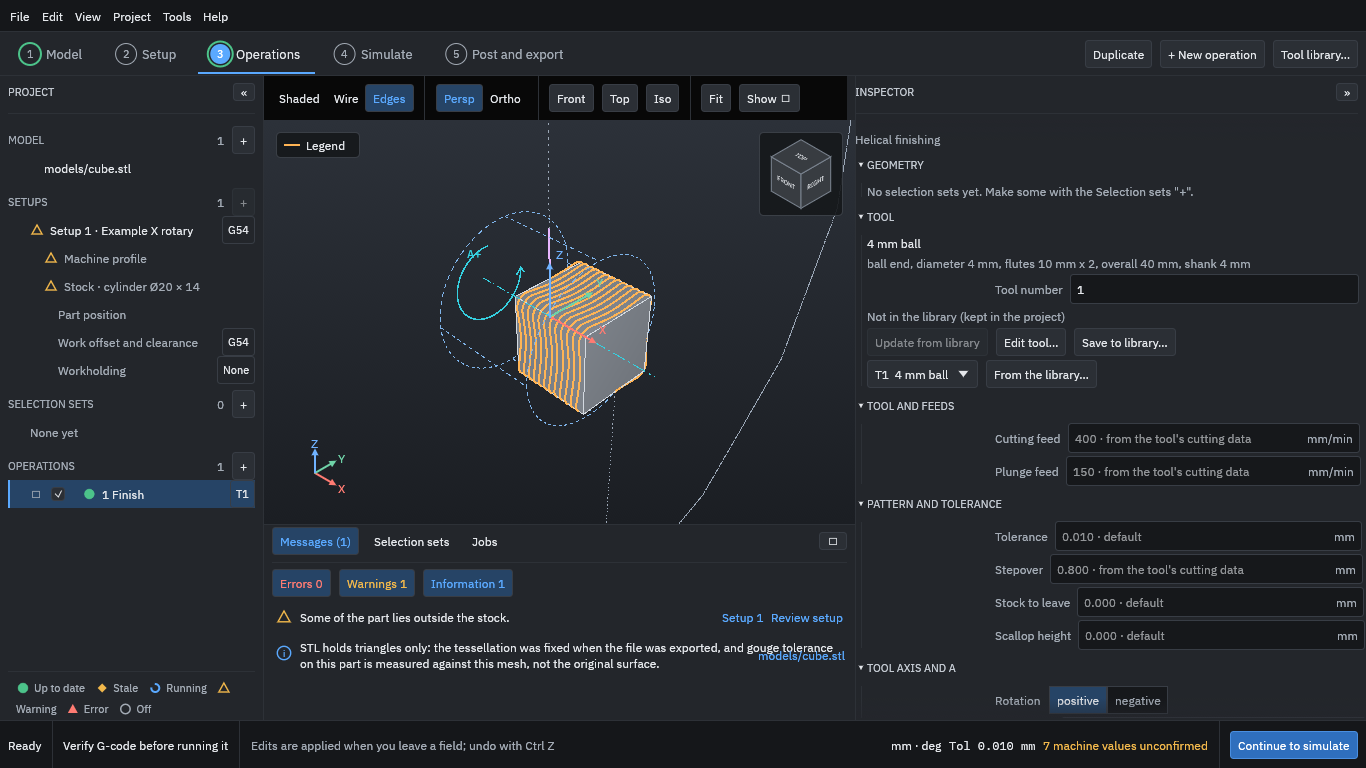
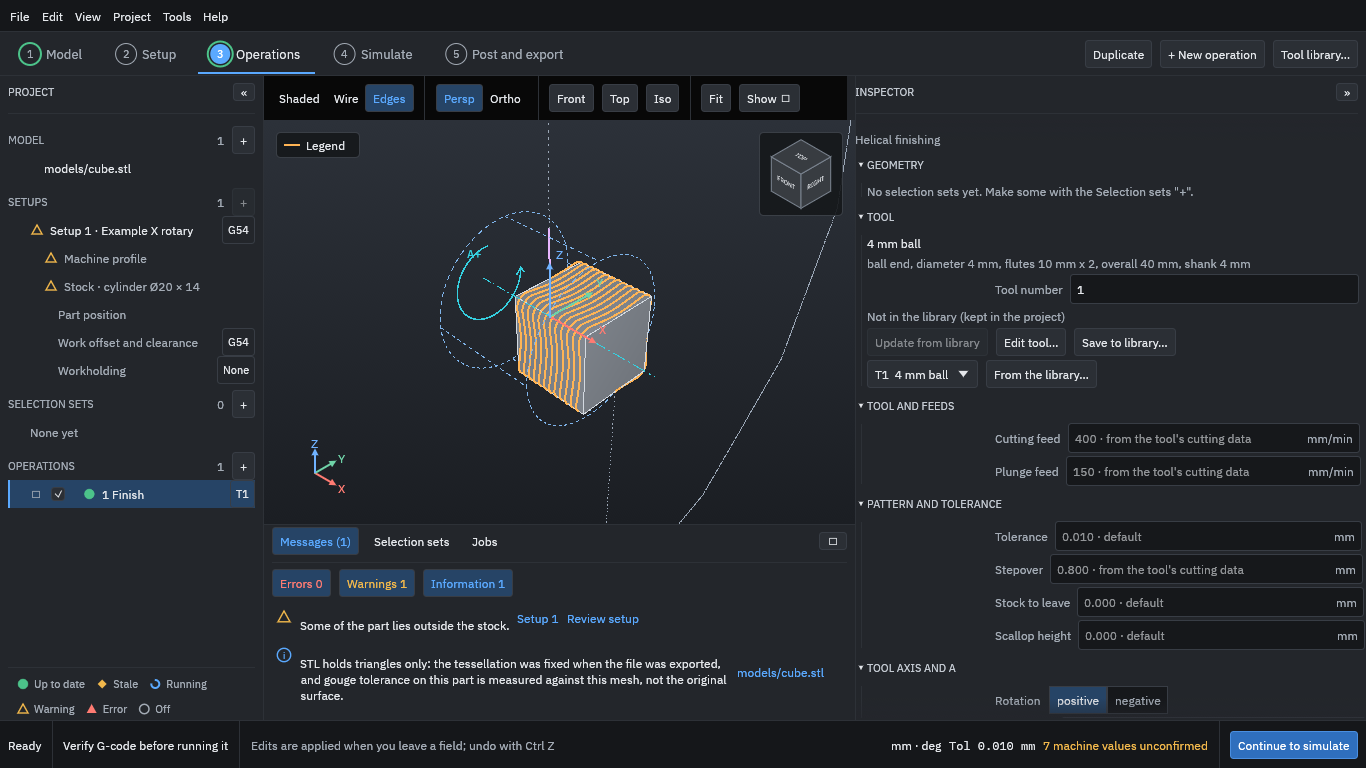
Lane X8: fix the tree legend wrap and the export Wrap line (OI-530, OI-532), retake the screenshots
- The legend breaks its rows between entries, so a mark stays with its word.
- The post's values in the export dialog wrap inside their column.
- OI-523 stays the owner's Windows check; OI-533 (release.yml rust-cache) waits for pull request 172.

Claude-Session: https://claude.ai/code/session_01HVsHpvSqvNnTY4BNJXZ1q7

Changed region(s): [[0.1845, 0.7812, 0.6149, 0.9062], [0.0, 0.875, 0.1537, 0.9375], [0.5227, 0.7812, 0.6149, 0.8125]]

diff --git a/apps/openchuck-ui/src/shell/marks.rs b/apps/openchuck-ui/src/shell/marks.rs
@@ -122,11 +122,43 @@ pub fn tick(ui: &mut egui::Ui) -> egui::Response {
     response
 }
 
-/// The legend of the marks, pinned under the tree (specification section 6).
+/// Which entries of a wrapped row of `widths` start a new row in `available` width, so that
+/// an entry (a mark with its word) is never split from its word at a row's end (OI-530).
+/// `gap` is the space between entries.
+fn row_starts(widths: &[f32], available: f32, gap: f32) -> Vec<bool> {
+    let mut used = 0.0;
+    widths
+        .iter()
+        .map(|w| {
+            let wraps = used > 0.0 && used + w > available;
+            used = if wraps { *w } else { used + w } + gap;
+            wraps
+        })
+        .collect()
+}
+
+/// The legend of the marks, pinned under the tree (specification section 6). Each mark stays
+/// with its word when the row wraps.
 pub fn legend(ui: &mut egui::Ui) {
+    let font = egui::TextStyle::Small.resolve(ui.style());
+    let widths: Vec<f32> = ItemState::ALL
+        .iter()
+        .map(|state| {
+            let word = ui
+                .painter()
+                .layout_no_wrap(state.name().to_owned(), font.clone(), DARK.muted)
+                .size()
+                .x;
+            SIZE + 4.0 + 4.0 + word + 6.0
+        })
+        .collect();
+    let starts = row_starts(&widths, ui.available_width(), 4.0);
     ui.horizontal_wrapped(|ui| {
         ui.spacing_mut().item_spacing.x = 4.0;
-        for state in ItemState::ALL {
+        for (state, wraps) in ItemState::ALL.into_iter().zip(starts) {
+            if wraps {
+                ui.end_row();
+            }
             mark(ui, state, state.name());
             ui.label(egui::RichText::new(state.name()).small().color(DARK.muted));
             ui.add_space(6.0);
@@ -153,5 +185,60 @@ pub fn colour(severity: Severity) -> Color32 {
         Severity::Error => DARK.error,
         Severity::Warning => DARK.warning,
         Severity::Info => DARK.accent,
+    }
+}
+
+#[cfg(test)]
+mod tests {
+    use super::*;
+
+    #[test]
+    fn req_ui_11_the_legend_wraps_between_entries_never_inside_one() {
+        // OI-530: an entry is a mark and its word; the row breaks before an entry that does
+        // not fit whole, so a word never lands on the next row apart from its mark.
+        let widths = [60.0, 50.0, 70.0, 40.0, 60.0, 30.0];
+        let starts = row_starts(&widths, 200.0, 4.0);
+        assert_eq!(starts, [false, false, false, true, false, false]);
+        // Every row holds what fits.
+        let mut used = 0.0;
+        for (w, wraps) in widths.iter().zip(&starts) {
+            if *wraps {
+                used = 0.0;
+            }
+            used += w + 4.0;
+            assert!(used - 4.0 <= 200.0, "{used}");
+        }
+        // A single entry wider than the row stays on its own row, never skipped.
+        assert_eq!(row_starts(&[300.0, 20.0], 200.0, 4.0), [false, true]);
+        assert!(row_starts(&[], 200.0, 4.0).is_empty());
+    }
+
+    #[test]
+    fn req_ui_11_the_legend_at_the_tree_width_keeps_each_word_inside_the_panel() {
+        let ctx = egui::Context::default();
+        let mut output = ctx.run_ui(
+            egui::RawInput {
+                screen_rect: Some(egui::Rect::from_min_size(
+                    egui::pos2(0.0, 0.0),
+                    egui::vec2(240.0, 200.0),
+                )),
+                ..Default::default()
+            },
+            legend,
+        );
+        output.textures_delta.clear();
+        let mut words = Vec::new();
+        for clipped in &output.shapes {
+            if let egui::Shape::Text(t) = &clipped.shape {
+                words.push((t.galley.text().to_owned(), t.pos.x + t.galley.size().x));
+            }
+        }
+        for state in ItemState::ALL {
+            let (_, right) = words
+                .iter()
+                .find(|(t, _)| t == state.name())
+                .unwrap_or_else(|| panic!("{} is drawn", state.name()));
+            assert!(*right <= 240.0, "{} ends at {right}", state.name());
+        }
     }
 }

diff --git a/apps/openchuck-ui/src/export_panel.rs b/apps/openchuck-ui/src/export_panel.rs
@@ -573,7 +573,9 @@ impl ExportPanel {
                             ("Feed mode", post.feed_mode.as_str()),
                         ] {
                             ui.label(label);
-                            ui.label(value);
+                            // A long value wraps inside its column instead of running under
+                            // the Files pane (UI-16; OI-532).
+                            ui.add(egui::Label::new(value).wrap());
                             ui.end_row();
                         }
                     });
@@ -974,6 +976,51 @@ mod tests {
         output.shapes.iter().any(|clipped| {
             matches!(&clipped.shape, egui::epaint::Shape::Rect(r) if r.fill == DARK.primary)
         })
+    }
+
+    #[test]
+    fn req_ui_16_the_posts_long_wrap_line_stays_in_its_column() {
+        // OI-532: "whole turns dropped without motion" ran under the Files pane.
+        let (dir, mut app, _, _) = cube_project("export-wrap");
+        let mut panel = ExportPanel::new(None);
+        panel.open(&app);
+        let checks = app.export_checks(None, None, None);
+        let ctx = egui::Context::default();
+        let mut paint = || {
+            let mut acts = Vec::new();
+            let mut output = ctx.run_ui(
+                egui::RawInput {
+                    screen_rect: Some(egui::Rect::from_min_size(
+                        egui::pos2(0.0, 0.0),
+                        egui::vec2(800.0, 900.0),
+                    )),
+                    ..Default::default()
+                },
+                |ui| panel.draw(ui, &app, &checks, None, &mut acts),
+            );
+            output.textures_delta.clear();
+            let mut texts = Vec::new();
+            for clipped in &output.shapes {
+                if let egui::epaint::Shape::Text(t) = &clipped.shape {
+                    texts.push((t.galley.text().to_owned(), t.pos.x, t.galley.size().x));
+                }
+            }
+            texts
+        };
+        paint();
+        let texts = paint();
+        let files_x = texts
+            .iter()
+            .find(|(t, _, _)| t == "Files to write")
+            .map(|(_, x, _)| *x)
+            .expect("the right column is drawn");
+        let wrap = texts
+            .iter()
+            .find(|(t, _, _)| t.contains("whole turns"))
+            .expect("the Wrap value is drawn");
+        assert!(wrap.1 + wrap.2 <= files_x, "{wrap:?} against {files_x}");
+        app.set_post(None);
+        let _ = std::fs::remove_dir_all(dir);
     }
 
     #[test]

diff --git a/docs/work-breakdown.md b/docs/work-breakdown.md
@@ -97,7 +97,7 @@ State of each slice on `main` (20 Oct 2026, refreshed by lane SP; lanes in fligh
 | 19 output options and setup sheet | In progress | Item 4 built by lane S on `claude/lane-s-slice-19-export-dialogs` ([decision 0071](decisions/0071-slice-19-export-dialogs.md), accepted); the owner closes the slice |
 | 20 hardening and first release | In progress | Merged: the release workflow and gate (TR), the end-to-end suite (TE), the UI smoke test (TS), the malformed-input sweep (FZ), the build traceability (BI) and the log file (BUG-LOG). Not started: lane TP (publish readiness, OI-302 and OI-303). The release workflow has never run (OI-304). Lane UIR (the user interface end-to-end review) and lane REL (the release) come last |
 | 21 workholding and retaining tabs | Built and merged; the owner closes the slice | 21a and 21b are merged (lanes U and V); 21c, application wiring, simulation, deviation, forms and the command line, is built by lane W on `claude/lane-w-slice-21c-wiring` ([decision 0045](decisions/0045-slice-21c-wiring.md), accepted 16 Oct 2026; OI-195 to OI-198 and OI-209); the fix for walls in the target (OI-209, closed) is merged from lane Y ([decision 0050](decisions/0050-walls-merge-micro-moves.md), accepted 16 Oct 2026, relayed by the orchestrator session at the owner's instruction); 21d ([decision 0104](decisions/0104-held-regions-and-tabs-in-the-interface.md), UI-25): the interface specification (sections 7.5 and 11.7) is written by lane 21d on `claude/lane-21d-workholding-ui-spec` and merged; its code and tests (item 3) are built by lane 21d on `claude/lane-21d-workholding-ui-code` (merged, pull request 119; OI-325 closed, what remains is OI-334). Slice 21 is not in `closed_slices` |
-| 22 user interface conformance pass | In progress | Reframed as a conformance pass ([decision 0105](decisions/0105-slice-22-conformance-pass.md), accepted). Merged: the conformance report (X1, [decision 0114](decisions/0114-slice-22-conformance-report.md)), the shell frame (X2), viewport drawing (X3), inspectors (X4), the Setup panes (X5), Simulate and import (X6), theme tokens (X7a), plain wording (X7b) and the Setups "+" (SU). In flight (draft pull requests): IW #161, SL #162, UAL #163, BUG-SEL #164; lane X9 (tool library window) and lane MV are in flight on branches this session cannot fully see. Built: X8 (smoke test, 1366 × 768 screenshots, display checks, frame benchmark on software; [decision 0131](decisions/0131-slice-22-verification.md), proposed; findings OI-525 to OI-529 fixed, OI-523, OI-530 and OI-532 open), pull request in draft. Queued: UIR. Open: OI-334 (what the workholding panel still lacks), OI-342 (boards, see OI-472), OI-360 (message sweep; the smoke test opens every dialog but does not read each message). Not in `closed_slices` |
+| 22 user interface conformance pass | In progress | Reframed as a conformance pass ([decision 0105](decisions/0105-slice-22-conformance-pass.md), accepted). Merged: the conformance report (X1, [decision 0114](decisions/0114-slice-22-conformance-report.md)), the shell frame (X2), viewport drawing (X3), inspectors (X4), the Setup panes (X5), Simulate and import (X6), theme tokens (X7a), plain wording (X7b) and the Setups "+" (SU). In flight (draft pull requests): IW #161, SL #162, UAL #163, BUG-SEL #164; lane X9 (tool library window) and lane MV are in flight on branches this session cannot fully see. Built: X8 (smoke test, 1366 × 768 screenshots, display checks, frame benchmark on software; [decision 0131](decisions/0131-slice-22-verification.md), proposed; findings OI-525 to OI-530 and OI-532 fixed, OI-523 and OI-533 open), pull request in draft. Queued: UIR. Open: OI-334 (what the workholding panel still lacks), OI-342 (boards, see OI-472), OI-360 (message sweep; the smoke test opens every dialog but does not read each message). Not in `closed_slices` |
 
 ## Slice order and dependencies
 
@@ -165,7 +165,7 @@ Slices 0 to 7 and 13 are closed. The remaining work splits into the lanes below,
 | X7b | 22: plain wording and tokens applied to existing panels (built 19 Oct 2026 on `claude/lane-x7b-wording-tokens`; no decision record; OI-360) | ░░ | ░░ | ░░ | ░░ | ██ |
 | X9 | 22: tool library window (12.1) and trial feedback F-10 (issue 148): tools out of the tree (UI-06 amended), the operation's Tool section, the window with drafts, This project, import review and Add to project. Built 20 Oct 2026 on `claude/lane-x9-tool-library-window` ([decision 0127](decisions/0127-slice-22-tool-library-window.md), accepted 20 Oct 2026; OI-375 to OI-379, OI-491 and OI-492 answered by the owner and closed; OI-493 and OI-494 open); board 10 re-rendered | ░░ | ░░ | ░░ | ░░ | ██ |
 | SU | 22 (SET-01 to SET-06 from the interface): the Setups "+" and the workflow bar's "Add setup" create the project's one setup ([decision 0144](decisions/0144-one-setup-from-the-interface.md), accepted 19 Oct 2026; OI-425 and OI-426 closed; built on `claude/lane-su-add-setup`, merged, pull request 149) | ░░ | ░░ | ░░ | ░░ | ██ |
-| X8 | 22 step 3: smoke test, 1366 × 768 screenshots, display checks, frame benchmark rerun, carried findings. Built 20 Oct 2026 on `claude/lane-x8-verification` ([decision 0131](decisions/0131-slice-22-verification.md), proposed; no boards to re-render): `shell/smoke_tests.rs`, screenshots in `docs/ui-design/screenshots-1366x768/`, the benchmark on software only (the reference-hardware run is the owner's, OI-264, OI-266); display findings fixed in the lane (OI-525 to OI-529); OI-523, OI-530 and OI-532 open | ░░ | ░░ | ░░ | ░░ | ██ |
+| X8 | 22 step 3: smoke test, 1366 × 768 screenshots, display checks, frame benchmark rerun, carried findings. Built 20 Oct 2026 on `claude/lane-x8-verification` ([decision 0131](decisions/0131-slice-22-verification.md), proposed; no boards to re-render): `shell/smoke_tests.rs`, screenshots in `docs/ui-design/screenshots-1366x768/`, the benchmark on software only (the reference-hardware run is the owner's, OI-264, OI-266); display findings fixed in the lane (OI-525 to OI-530, OI-532); OI-523 and OI-533 open | ░░ | ░░ | ░░ | ░░ | ██ |
 | IW | 22 follow-up: the import window from the owner's trial (issues 146, 147, 144, 145; F-08, F-09, F-06, F-07): fixed size with pinned header and footer, a spinner row that reserves its space, "Check and preview" with a step line, the dialog raised when the application returns from the background. Built 20 Oct 2026 on `claude/lane-iw-import-window-fixes`; no decision record, no project format change; OI-430 and OI-431 (Windows and on-screen checks, owner; OI-432 closed); merged, pull request 161 | ░░ | ░░ | ░░ | ░░ | ██ |
 | SL | Bug fix (issue 142, trial feedback F-04): Setup pane labels placed so none overlaps another, with leader lines (`claude/lane-sl-setup-callouts`; no decision record, no format change; OI-440 to OI-442; merged, pull request 162) | | | | | ██ |
 | UAL | Issue 156 (trial finding F-15): the user-action log, built on the BUG-LOG log. Built 20 Oct 2026 on `claude/lane-ual-user-action-logging` ([decision 0157](decisions/0157-user-action-log.md) and [decision 0158](decisions/0158-log-hardening.md), both accepted by the owner (20 Oct 2026); OI-476 to OI-480, OI-496 and OI-497; requirement NFR-18, P2; no project format change) | ██ | | | | |

diff --git a/docs/open-items.md b/docs/open-items.md
@@ -187,9 +187,8 @@ States: *open* (needs work or a decision), *proposed* (a recommendation awaits a
 | OI-431 | The import dialog's fixed size (460 by 520 points) is checked by test against 1366 by 768 at 120 %, not on screen at 1920 by 1080, at 120 % and at 1366 by 768 at 100 %. The owner confirms the height feels right on the Windows build (issue 146, F-08). | Lane IW | 20 Oct 2026 | Owner, on a Windows nightly build | Owner's Windows trial |
 | OI-493 | The tool library window's *(display)* checks are not made: its layout at 1366 by 768 (UI-16), contrast, tooltips on keyboard focus and AccessKit names; the UI smoke test does not open it. | [Decision 0127](decisions/0127-slice-22-tool-library-window.md) open item 1 | open: lane X8 opened the window in the smoke test and looked at it at 1366 by 768 on a software renderer (`tool_library.png`; its placement is OI-526); contrast, tooltips on keyboard focus and AccessKit names are not checked | Lane X8 (slice 22 step 3) | Lane X9 merged |
 | OI-494 | The tool library window lists only the machine tool sets the library holds (the Makera Z1 default set, TL-11); a tool set for another machine is made with the command line (`openchuck-cli library ... tool-set`) or by hand. | [Decision 0127](decisions/0127-slice-22-tool-library-window.md) open item 2 | open | Owner: whether the window should make a tool set for a machine profile | – |
-| OI-523 | The default dock height (OI-516) fits its content at 1366 by 768 on the lane's Linux run; the Windows check is not made: lane X6's Windows CI found the dock about 140 px tall, the cause the lane X8 fix addresses (a size the first frame clamped was saved as the user's choice). | Lane X8; lane X6 (pull request 129) | open | Owner: open the Simulate step on a Windows nightly build at 1366 by 768 and confirm that Speed, Whole program and Go to move show without scrolling | A Windows machine |
-| OI-530 | The tree's pinned legend wraps so that "Warning" is on a second line apart from its icon, at 240 pixels. | Lane X8 display checks; `operations_selected.png` | open | Next lane that touches `tree.rs`: keep each mark with its word, UI-11 | – |
-| OI-532 | In the export dialog the Wrap line ("positive A as the machine profile defines it; whole turns dropped without motion") runs under the Files pane at 1366 by 768. | Lane X8 display checks; `export_dialog.png` | open | Next lane that touches `export_panel.rs`: wrap the post's values, UI-16 | – |
+| OI-523 | The default dock height (OI-516) fits its content at 1366 by 768 on the lane's Linux run; the Windows check is not made: lane X6's Windows CI found the dock about 140 px tall, the cause the lane X8 fix addresses (a size the first frame clamped was saved as the user's choice). | Lane X8; lane X6 (pull request 129) | open | Lane X8 proved on Linux that the default dock shows Speed, Whole program and Go to move at 1366 by 768 and that a clamp is not saved or kept when the window grows (the OI-516 test). Owner: open the Simulate step on a Windows nightly build at 1366 by 768 and confirm that Speed, Whole program and Go to move show without scrolling | A Windows machine |
+| OI-533 | The credentialed publish-crates job of `.github/workflows/release.yml` (lane TP, pull request 172) restores a `Swatinem/rust-cache` cache beside `CARGO_REGISTRY_TOKEN`, so restored artefacts could run next to the token. The owner asked for the cache step to be removed there; the file is not on `main` yet. | Lane TP review; coordinator, 20 Oct 2026 | open | Lane X8, the push after pull request 172 merges and the merge manager releases this lane: delete the step in that job, nothing else | Pull request 172 on `main` |
 
 ## Closed
 
@@ -428,3 +427,5 @@ States: *open* (needs work or a decision), *proposed* (a recommendation awaits a
 | OI-527 | The Setup step's workholding section shows a default tab's dimensions unrounded (`Ø 14.142135623730951 mm to Ø 7.0710678118654755 mm`), against the fixed places of specification 14.3. | Lane X8 display checks; `setup_workholding.png` | 20 Oct 2026 | Lane X8: a default tab's size is shown to 3 places (`mm_fixed`); test in `req_ui_25_the_section_shows_the_zones_and_offers_the_defaults_by_zone` |
 | OI-528 | On the Setup step the chip "Showing unapplied workholding" is shown while nothing is unapplied (Revert and Apply are disabled), and the front pane's top-left corner is crowded by that chip, the "Z+ travel limit" label and the hatch; the "-Y front" label touches the pane edge. | Lane X8 display checks; `setup_workholding.png` | 20 Oct 2026 | Lane X8: `WorkholdingDraft::unapplied` is set only when the draft differs from the stored workholding, and the chip follows it (`Viewport::shows_unapplied`); the end view's side labels have room (test `req_ui_25_the_end_views_side_labels_stay_inside_its_pane`); test `req_ui_25_the_draft_and_the_selected_solid_reach_the_view` |
 | OI-529 | On Simulate at 1366 by 768 with the inspector open, the toolbar's Simulate "Show" choices are cut off at the right edge of the strip ("Show" readable, the choices not). The cut-off is by design (7.1) but hides a P1 control. | Lane X8 display checks; `simulate.png` | 20 Oct 2026 | Lane X8: when the Simulate "Show" choices do not fit after the other controls they move into the "Show" menu; test `req_ui_03_simulates_show_choices_are_never_cut_off_they_move_into_the_show_menu` |
+| OI-530 | The tree's pinned legend wraps so that "Warning" is on a second line apart from its icon, at 240 pixels. | Lane X8 display checks; `operations_selected.png` | 20 Oct 2026 | Lane X8 (owner: fix it): the legend breaks its row between entries, so a mark stays with its word (`marks::row_starts`); tests `req_ui_11_the_legend_wraps_between_entries_never_inside_one` and `req_ui_11_the_legend_at_the_tree_width_keeps_each_word_inside_the_panel` |
+| OI-532 | In the export dialog the Wrap line ("positive A as the machine profile defines it; whole turns dropped without motion") runs under the Files pane at 1366 by 768. | Lane X8 display checks; `export_dialog.png` | 20 Oct 2026 | Lane X8 (owner: fix it): the post's values wrap inside their column; test `req_ui_16_the_posts_long_wrap_line_stays_in_its_column` (it failed before the fix) |

diff --git a/docs/decisions/0131-slice-22-verification.md b/docs/decisions/0131-slice-22-verification.md
@@ -3,7 +3,7 @@
 - **Status:** proposed (20 Oct 2026). Lane X8, slice 22 step 3 ([decision 0114](0114-slice-22-conformance-report.md) section E, accepted). Only the project owner accepts it. Item 5 settles a rule the coordinator asked this lane to settle (OI-514); the owner may change it.
 - **What it changes:** no requirement, no architecture text and no project format. Item 5 amends the "no model" wording of [decision 0148](0148-menus-and-view-directions.md) item 2.
 - **Date:** 20 Oct 2026.
-- **Open items** are tracked in [docs/open-items.md](../open-items.md). OI-515 to OI-522 are new and closed in this change. OI-525 to OI-529 are new and closed in this change (the owner asked for them to be fixed in the lane). OI-523, OI-530 and OI-532 are new and open. OI-514 (closed) is edited. OI-360, OI-442 and OI-493 are updated and stay open.
+- **Open items** are tracked in [docs/open-items.md](../open-items.md). OI-515 to OI-522 are new and closed in this change. OI-525 to OI-530 and OI-532 are new and closed in this change (the owner asked for them to be fixed in the lane). OI-523 and OI-533 are new and open. OI-514 (closed) is edited. OI-360, OI-442 and OI-493 are updated and stay open.
 
 Numbering: 0130 and 0133 are on `main`, 0131 and 0132 were assigned to this lane and are free on `main` and on every unmerged branch (checked 20 Oct 2026); this record takes 0131. The highest open item on `main` and every fetched branch was OI-514. The coordinator's numbers OI-349, OI-359, OI-505 and OI-507 to OI-509 never reached the register, so they are new items here from OI-515 and carry the old number in their text (the coordinator agreed, 20 Oct 2026). OI-385 to OI-389 are not used. OI-524 belongs to lane REL (pull request 172) and is not used here; the coordinator assigned this lane OI-515 to OI-523 and it took OI-525 to OI-532 beyond that.
 
@@ -17,7 +17,8 @@ Decision 0114 gives lane X8 the last step of slice 22: a smoke test that opens e
 2. **The display run.** The lane built the release application and ran it under Xvfb at 1366 by 768 with Mesa's `llvmpipe` software renderer (Vulkan), at the default 100% scale, with no window manager, on the cloud container (4 vCPU Intel Xeon at 2.1 GHz, 15 GB). It stepped through the Model, Setup, Operations, Simulate and Export steps, the workholding section, picking, the export dialog and the tool library window and took the screenshots in [docs/ui-design/screenshots-1366x768/](../ui-design/screenshots-1366x768/). They are the reference screens of UI-16 for this build, from a software renderer: fonts and layout are real, the colours and the line widths are the renderer's. What they show:
    - **Fits:** every step draws without overlapping panels, and the footer, the workflow bar, the toolbar strip, the tools box (placed under the strip, issue 159) and the Legend and cube overlays do not overlap each other.
    - **Findings, fixed in the lane** (the owner answered "fix the identified issues", relayed by the coordinator; each test first): a Messages row's source link over its wrapped sentence (OI-525); floating dialogs opening from the top-left corner and larger than the window, and Esc not closing the tool library window (OI-526: dialogs are fitted inside the main window and centred, Esc closes the window; the no-window-manager focus observation stays the owner's to confirm on a desktop); unrounded numbers in the default-tab line (OI-527); the "Showing unapplied workholding" chip with nothing unapplied and the end view's side labels touching the pane edge (OI-528); the Simulate toolbar choices cut off at 1366, now in the Show menu when they do not fit (OI-529). The screenshots that changed were retaken.
-   - **Findings left open:** the tree legend wrapping "Warning" away from its mark (OI-530) and the export dialog's Wrap line running under the Files pane (OI-532), both small layout changes for the next lane that touches those files.
+   - **Findings fixed in a second round** (owner: "fix OI-523, OI-530 and OI-532"): the tree legend wrapping "Warning" away from its mark (OI-530) and the export dialog's Wrap line running under the Files pane (OI-532). OI-523 (the Windows dock height) cannot be run on Linux: the OI-516 tests prove the default dock shows the playback controls at 1366 by 768, that a clamp is not saved, and that a grown window restores the saved size; the real check stays the owner's. All screenshots were retaken after this round.
+   - **Release workflow item** (OI-533): removing the `Swatinem/rust-cache` step from the credentialed publish job of `release.yml` waits for pull request 172, whose file it is; it is the lane's last push.
    - **Not checkable here:** contrast ratios, tooltips on keyboard focus, AccessKit names, and Windows or macOS behaviour (OI-493, OI-442, OI-440, OI-523, OI-430 stay with the owner).
 3. **The frame benchmark (NFR-03).** `openchuck-ui --bench` on the 1,002,000-triangle model of `bench_model`, shaded with edges, 10 seconds of the scripted path, same container, `llvmpipe` (a CPU renderer, 762 by 404 pixel view): 86 frames, mean 117.2 ms, p95 164.0 ms, p99 183.0 ms, which fails the 33 ms limit as expected in software. This is not the NFR-03 result: that is the run on the reference hardware (verification plan 4.2; OI-264, OI-266), which is the owner's. The benchmark still runs and draws.
 4. **Carried findings fixed, each test first:**
@@ -31,7 +32,7 @@ Decision 0114 gives lane X8 the last step of slice 22: a smoke test that opens e
 ## Alternatives considered
 
 - Reading the scene for the rule (the first fix of OI-514): rejected, item 5.
-- Leaving the layout findings of item 2 to later lanes: rejected for OI-525 to OI-529 at the owner's request (two small ones, OI-530 and OI-532, stay open).
+- Leaving the layout findings of item 2 to later lanes: rejected for OI-525 to OI-529 at the owner's request (and OI-530 and OI-532 in a second round).
 - Faking a renderer to take screenshots in the test suite: rejected, the screens must come from the real application.
 
 ## Consequences
